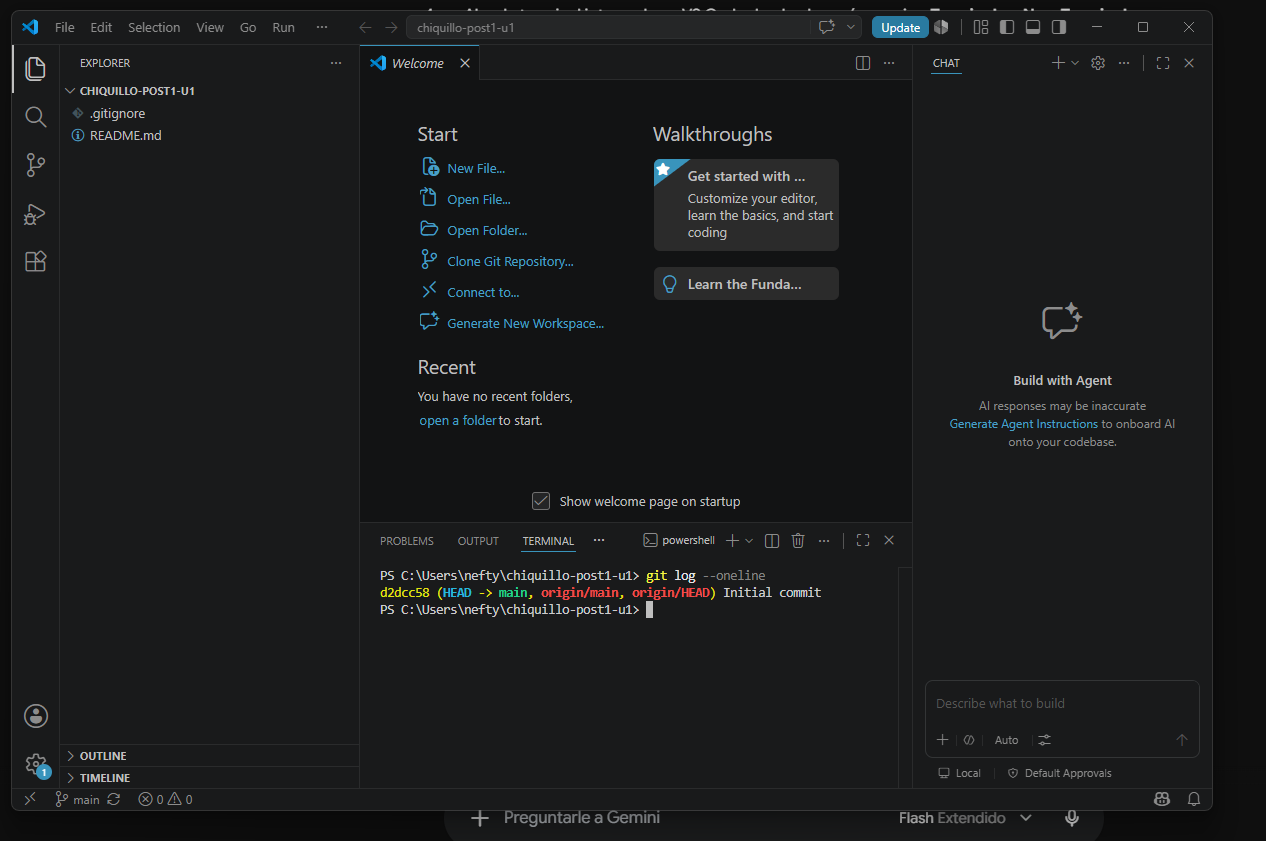
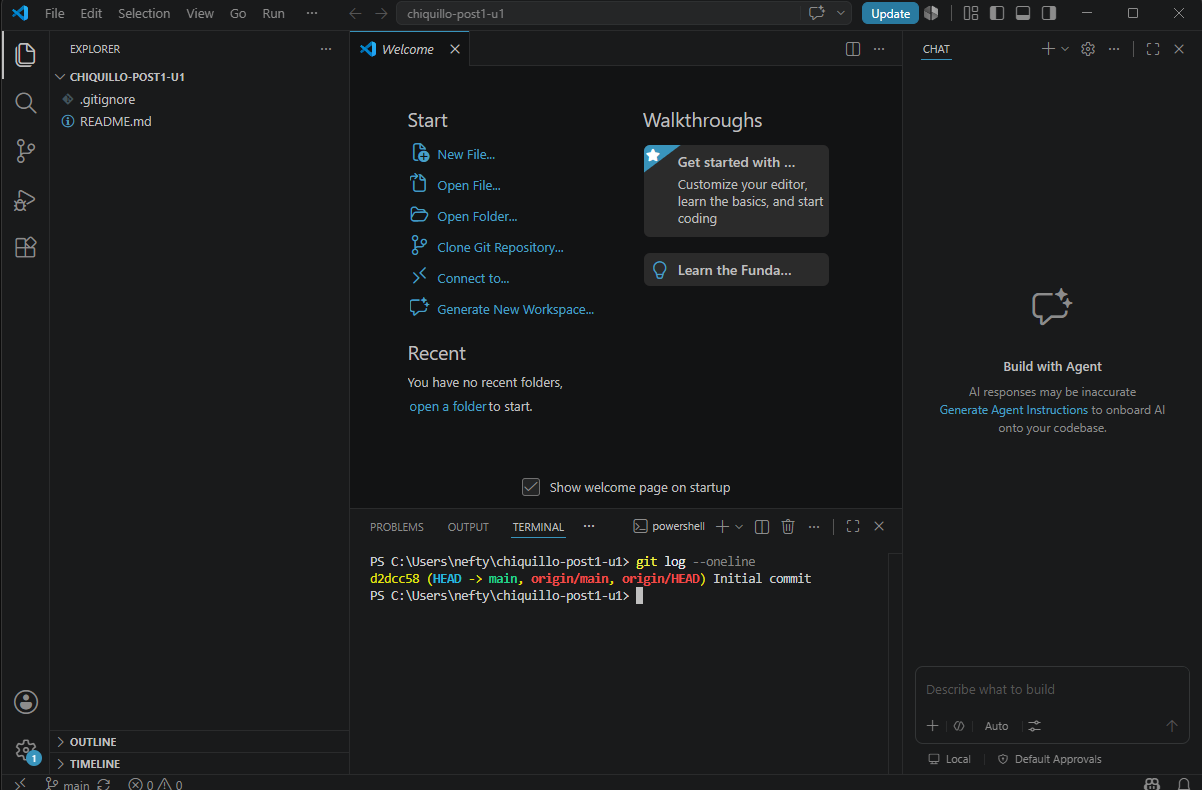
docs: completar evidencias con captura final de github y actualizar enlaces

diff --git a/README.md b/README.md
@@ -3,10 +3,10 @@
 Post-contenido — Refactorización SOLID y análisis de patrones GoF en Spring
 
 ## Descripción
-Repositorio del post-contenido de la Unidad 1 de Patrones de Diseño de Software — Sexto Semestre. Contiene dos partes: refactorización SOLID de un God Object (`parte-1-refactorizacion-solid/`) y análisis de patrones GoF en Spring Framework (`parte-2-analisis-gof-spring/`).
+Repositorio del post-contenido de la Unidad 1 de Patrones de Diseño de Software — Sexto Semestre. Contiene dos partes: refactorización SOLID de un God Object ([parte-1-refactorizacion-solid/](parte-1-refactorizacion-solid/)) y análisis de patrones GoF en Spring Framework ([parte-2-analisis-gof-spring/](parte-2-analisis-gof-spring/)).
 
 ## Parte 1 — Refactorización SOLID
-Proyecto Maven que refactoriza la clase monolítica `OrderProcessor` aplicando los principios de diseño SRP, OCP y DIP mediante la separación en clases cohesivas, la adopción del patrón Strategy para el cálculo de descuentos y la inyección de dependencias por constructor. Ver `parte-1-refactorizacion-solid/`.
+Proyecto Maven que refactoriza la clase monolítica `OrderProcessor` aplicando los principios de diseño SRP, OCP y DIP mediante la separación en clases cohesivas, la adopción del patrón Strategy para el cálculo de descuentos y la inyección de dependencias por constructor. Ver [parte-1-refactorizacion-solid/](parte-1-refactorizacion-solid/).
 
 ### Análisis de Violaciones SOLID
 
@@ -33,7 +33,8 @@ mvn exec:java -Dexec.mainClass="com.patrones.u1.Main"
 | 2 | Facade | Estructural | `org.springframework.jdbc.core.JdbcTemplate` (`spring-jdbc`) |
 | 3 | Observer | Comportamiento | `org.springframework.context.ApplicationListener` (`spring-context`) |
 
-Ver `parte-2-analisis-gof-spring/documento-analisis.md`.
+Ver el análisis completo en [parte-2-analisis-gof-spring/documento-analisis.md](parte-2-analisis-gof-spring/documento-analisis.md).  
+Los extractos de código fuente y capturas de evidencia se encuentran en [parte-2-analisis-gof-spring/evidencia/evidenciaimage.md](parte-2-analisis-gof-spring/evidencia/evidenciaimage.md).
 
 ## Herramientas utilizadas
 - Java 17, Apache Maven, VS Code, Git, GitHub

diff --git a/parte-2-analisis-gof-spring/evidencia/evidenciaimage.md b/parte-2-analisis-gof-spring/evidencia/evidenciaimage.md
@@ -104,4 +104,8 @@ Investigación de la infraestructura de eventos desacoplada en el módulo `sprin
 
 ---
 
+## 5. Checkpoint Paso 14: Vista Final del Repositorio en GitHub
 
+Captura de la vista principal del repositorio en GitHub (`Karen-Chiquillo/chiquillo-post1-u1`) donde se comprueba la estructura completa de carpetas y el `README.md` renderizado correctamente con las tablas de ambas partes.
+
+![Vista final del repositorio en GitHub](imagenes/13-vista-repo-github-final.png)
